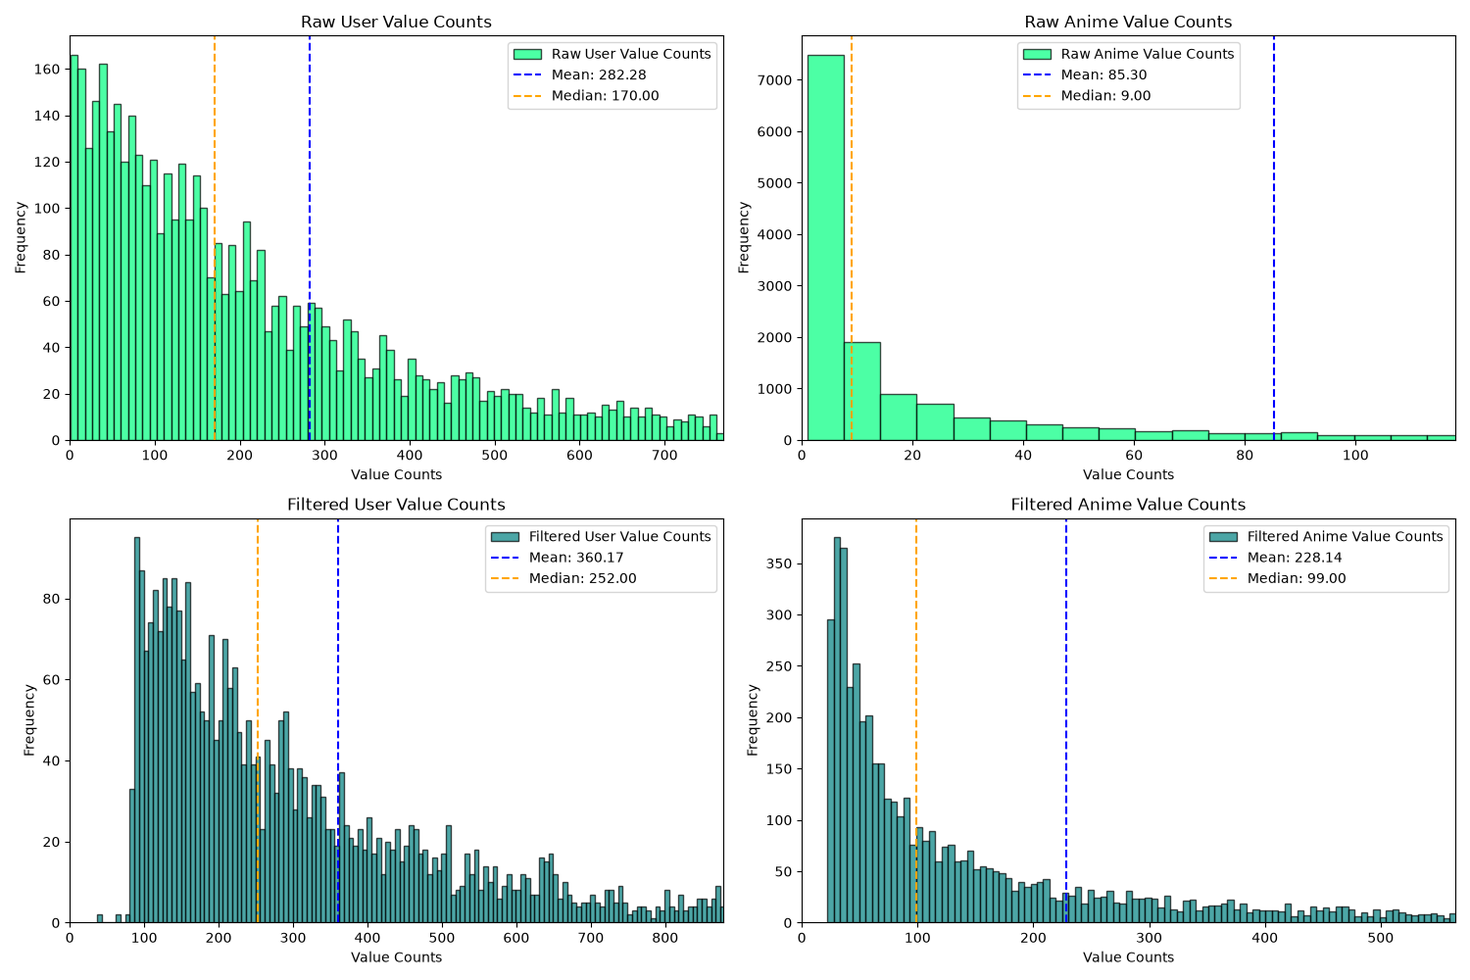
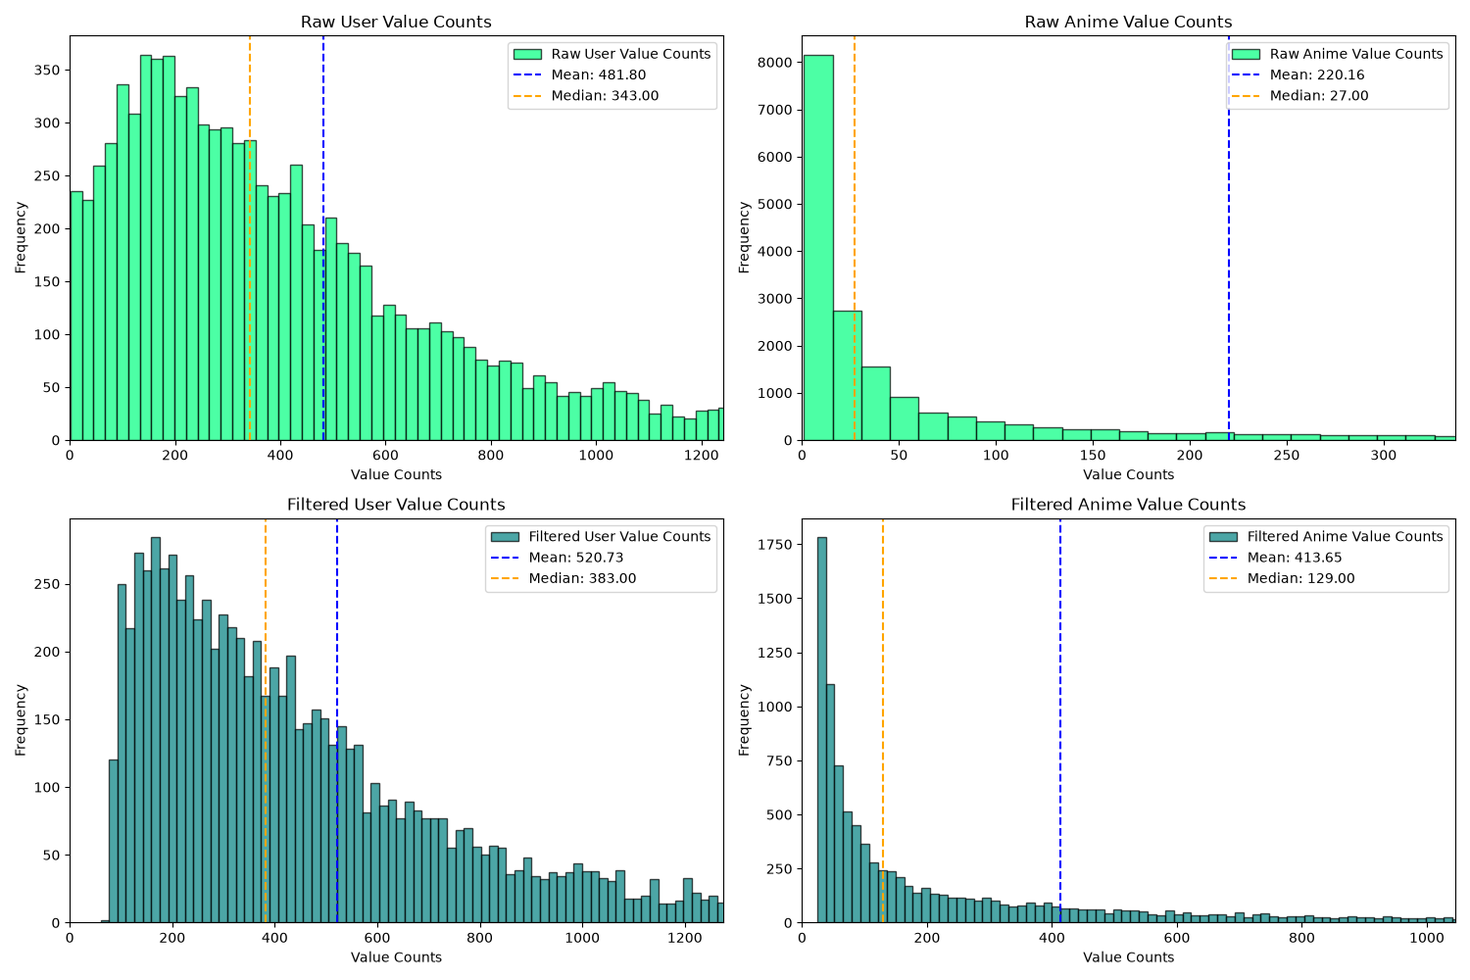
updated readme

diff --git a/README.md b/README.md
@@ -1,66 +1,151 @@
 # Anime Recommender
 
-User-based collaborative filtering, content-based filtering, a weighted hybrid and Surprise SVD on MyAnimeList ratings, all scored against simple baselines on the same held-out test set.
+User-based collaborative filtering, content-based filtering, a weighted hybrid and Surprise SVD on [AniList](https://anilist.co) ratings, all scored against simple baselines on the same held-out test set.
 
-MyAnimeList's built-in recommendations are based on popularity and on recent user-written recommendations, not on what an individual user has rated. This project tests how much personalised models improve on that, using ratings collected from MAL.
+## Background
 
-Originally built as a university data analytics coursework project. The code was reviewed and fixed afterwards (see [Changes](#changes-from-the-original-coursework-notebook)), so the results here differ from the original coursework report, which is not included.
+This started as a university data analytics coursework project built on a different dataset: ratings scraped from MyAnimeList (MAL). A later review of the code found problems in the original methods, some of them fundamental enough to change the results and the conclusions drawn from them, so the methods were rewritten (see [Issues in the original](#issues-in-the-original)).
+
+The project now uses AniList data only. Unlike the MAL data, which was collected with code outside this repo, the AniList data is collected by a notebook in this repo ([`anilist_ingestion.ipynb`](anilist_ingestion.ipynb)), so the dataset can be rebuilt from scratch. The original coursework report and the MAL data are not included.
+
+## Issues in the original
+
+Problems found in the coursework version, and how they were fixed:
+
+- **Collaborative filtering similarity was wrong.** Unrated anime were filled with 0 and the ratings masked with `> 0` *after* mean-centring, so only anime both users rated *above their own mean* counted. Every similarity was ≥ 0 and most users had several "perfect" (1.0) neighbours based on one or two shared anime. Now: mean-centred cosine over all co-rated anime (similarities can be negative), shrunk by `n_shared / (n_shared + 25)`, and ignored below 5 shared anime.
+- **CF neighbours didn't have to have rated the anime.** Neighbours were the top-n most similar users overall, so about 90% of predictions silently fell back to the user's mean. Now neighbours are picked per anime from the users who rated it.
+- **The hybrid mixed rating scales.** CF scores were on the 1–10 scale but content-based scores were `mean(similarity × rating)`, so CF always won and the "hybrid" output was just the CF list. Now both components predict ratings and are blended for every anime.
+- **The hybrid evaluation leaked test data.** It used user similarities computed from all ratings, test ratings included. Now evaluation only uses training ratings.
+- **Content-based errors were flattering.** Pairs it couldn't predict were dropped from the evaluation instead of counted. Now they fall back to a baseline and coverage is reported.
+- **Hyperparameters were tuned on the test set**, and models were scored on different splits with no baselines. Now every model is scored on one shared test set, neighbourhood sizes and the hybrid weight are tuned on a separate validation split, and three baselines are reported. Against those baselines, the original CF did *worse* than predicting each user's mean rating.
+- **The population comparison counted MAL's 0 ("watched, not scored") as a rating**, which put the population mean at 4.25 and led to the wrong conclusion that the sample wasn't representative.
+- Smaller fixes: a `StandardScaler` whose output was discarded, a file path that no longer existed, a "top 10" loop that read 9, uncapped predictions, `eval()` on stringified dicts, and an empty-string genre label created for missing values.
 
 ## Data
 
-**Collection.** The MAL API returned the 500 most popular anime. Their stats pages were scraped with Beautiful Soup for usernames, keeping only users who had scored the title. Collection was capped at 10,000 users by API limits. Each user's scored anime list was then fetched through the API, giving a 5,610 × 20,896 user-by-anime matrix. Metadata for each anime came from the API, and themes were scraped from each anime's page.
+### Collection
 
-**Population check.** The Kaggle [Anime Dataset 2023](https://www.kaggle.com/datasets/dbdmobile/myanimelist-dataset) user ratings (313,670 users once MAL's `0` = "not scored" entries are removed) are used to check that the sample is representative. The rating distributions are close: the mean rating is 7.38 in the sample and 7.43 in the population, and the median is 8 in both.
+[`anilist_ingestion.ipynb`](anilist_ingestion.ipynb) collects the data from the AniList GraphQL API:
 
-**Preprocessing.**
-- Usernames are replaced with random user IDs by `scripts/anonymise_users.py`. The original files with real usernames are not in this repo.
-- Duplicate users are removed: 5,610 rows become 5,034 users, 4,915 of whom have at least one rating.
-- The wide matrix is melted into ~1.39M `(user_id, anime_title, rating)` rows.
-- Users with fewer than 85 ratings and anime with fewer than 25 are dropped. This leaves 3,506 users, 5,535 anime and 1.26M ratings.
-- Users whose mean rating is above 9 are removed, since many users rate everything 10 as a checklist. This leaves **3,370 users** for modelling.
-- Sparsity falls from 98.68% to 93.45%.
-- 72% of the remaining anime (3,977 of 5,535) have metadata. The content-based model falls back to the baseline for the rest.
+1. **Seed anime**: the top 500 anime by score.
+2. **Users**: for each seed anime, up to 50 users who have scored it, until `MAX_USERS` unique users are found.
+3. **Manual users**: specific users added by name (people of interest). They are always fetched and marked `source = "manual"`.
+4. **User lists**: every entry on each user's anime list, with scores on AniList's 1–100 scale (rescaled to 1–10 for the models).
+5. **Anime metadata**: the 15,000 anime rated most often in the collection plus the top 100 seed anime. This covers format, episodes, genres, tags, studios, scores and description, and keeps the MAL ID for cross-referencing.
+6. **MAL synopses**: AniList's descriptions are often short, so each anime's synopsis is looked up on MyAnimeList by its MAL ID. The source is the official MAL API when a `MAL_CLIENT_ID` environment variable is set (a free client ID from [myanimelist.net/apiconfig](https://myanimelist.net/apiconfig)), otherwise [Jikan](https://jikan.moe), an unofficial MAL API that needs no key. Some VPNs are blocked by Jikan; the stage detects this and stops with a message.
+
+Requests are throttled to AniList's current limit (30/min) with retries and backoff. Every stage checkpoints to disk, so a collection can run over several sessions and be interrupted safely, and each stage is validated before the next.
+
+The current dataset has 10,000 seed users plus 1 manual user. The seed users came from 241 of the 282 highest-rated anime, the ones searched before `MAX_USERS` was reached. 518 seed users had private lists, which leaves **9,483 lists, 7,485,213 list entries and 4,557,327 ratings** across 20,700 anime.
+
+### How the collected data is transformed
+
+**List entries → `ratings.csv.gz`** (one row per user and anime)
+- **Scores** are requested on AniList's 1–100 scale (`score`), whatever scale each user rates in, and rescaled to `rating = score / 10` (0.1–10). A score of 0 means *unrated*: `is_rated` is false and `rating` is empty. The analysis only uses rated entries.
+- **Custom lists are skipped**, since they repeat entries from the status lists (Watching, Completed, …).
+- **Duplicate entries are merged.** AniList occasionally holds two entries for the same anime in one list, mostly on accounts from 2014–2015. The rated entry is kept, then the most recently updated, then the one with more progress.
+- **Kept per entry:** `status` (`COMPLETED`, `PLANNING`, `DROPPED`, `CURRENT`, `PAUSED`, `REPEATING`), `progress` (episodes watched) and `repeat` (rewatch count).
+- **Dates:** AniList's partial dates become `YYYY-MM-DD` (or `YYYY-MM` / `YYYY` when incomplete), and Unix timestamps become ISO UTC. These dates are only kept in the raw collection; the anonymised copy drops them (see [Privacy](#privacy)).
+
+**User lists → `user_profiles.csv`** (one row per user, computed from their list)
+- Status counts: `Watching` (current + rewatching), `Completed`, `On-Hold` (paused), `Dropped`, `Plan to Watch` (planning), and `Total Entries`.
+- `Rewatched` is the sum of rewatch counts, `Episodes` the sum of episodes watched, and `Mean Score` the mean rating of rated entries.
+- `Days` comes from AniList's own watch-time statistic, and is empty when AniList has none for the account.
+- `Gender` is always empty, because AniList doesn't expose it.
+
+**Anime metadata → `anime_metadata.csv`** (one row per anime)
+- **Which anime:** the 15,000 anime rated most often in the collection plus the top 100 seed anime, fetched 50 per request.
+- `Title` is the romaji title. English and native titles, the MAL ID, studios (main studios only), source material, duration and airing status are kept as extra columns.
+- `Type` is AniList's format in lower case (`tv`, `tv_short`, `movie`, `special`, `ova`, `ona`, `music`).
+- **Genres** (`Genre(s)`) come from AniList's fixed list of 19 genres, comma-separated.
+- **Themes** (`Theme(s)`): AniList has no separate themes, so these are its tags with a relevance of at least 60/100, excluding spoiler tags, most relevant first. The full tag list with relevance scores is kept in `tags` (`name:rank; …`).
+- **Synopsis:** MyAnimeList's synopsis where there is one, with its credit line (`[Written by MAL Rewrite]`, `(Source: …)`) removed. Anime without a MAL synopsis fall back to AniList's description, with HTML removed, entities decoded, and the `(Source: …)` credit cut along with any broadcast notes after it. `synopsis_source` records which was used, and AniList's text is kept in `synopsis_anilist` for comparison. The text stays out of git (see [Privacy](#privacy)).
+- **Scores:** `Mean Rating` is AniList's mean score / 10. `Rank` and `Popularity` are AniList's all-time rankings, which only exist for top anime, so `Rank` is mostly empty. `score_distribution` holds AniList-wide score counts in 10-point buckets as JSON.
+- **Dates:** `Year` and `Season` (e.g. `spring 2023`) come from the release season, and `Start Date` / `End Date` are `dd/mm/yyyy` when the full date is known.
+
+**In the analysis** ([`anime_recommender.ipynb`](anime_recommender.ipynb))
+- **Content-based features** for each anime, scaled by a weight before being combined:
+  - episode count: log-scaled and standardised, weight 1;
+  - `Type`: one-hot encoded, weight 1;
+  - genres: multi-hot encoded, weight 2;
+  - themes: multi-hot encoded, weight 1.75;
+  - synopsis: a 384-dimension `all-MiniLM-L6-v2` sentence embedding, weight 3.5.
+- Content similarity is the cosine similarity of the weighted features.
+- `score_distribution` is summed over the sampled anime to compare the sample's ratings with AniList as a whole.
+- Ratings are matched to metadata by AniList anime ID.
+
+### Sampling bias
+
+The sample is not representative of AniList users:
+
+- **Users come from top-rated anime**, so they lean towards active, engaged users with long lists (median 343 ratings per user).
+- **The sample is dominated by early accounts.** For a given anime, AniList's API only returns the first 5,000 list entries, oldest first, and ignores sorting and date filters on that query. Users are taken from random pages within that window, but it can't reach past it. The median sampled account has an AniList ID of about 236,000, and 63% have IDs below 500,000, against roughly 7.9 million accounts in total.
+- **Users rate lower than AniList as a whole.** On the same anime, the sample's mean rating is about 7.1 against 7.6 for all AniList users (median 7 vs 8), with a similar spread (`figures/sample_vs_anilist_ratings.png`).
+- **The seed anime shape the sample.** Every seed user has scored at least one of the 282 highest-rated anime (e.g. *Sousou no Frieren*, *Gintama*, *Fullmetal Alchemist: Brotherhood*).
+- **Private lists are missing** (5% of the users found), and only users who scored the seed anime are taken.
+- **Manual users are hand-picked**, so they are excluded from the sample statistics. They are kept in the models and exempt from the user filters, so they always get recommendations.
+
+### Privacy
+
+The raw collection (`data/raw/anilist/`) contains usernames, AniList user IDs and complete lists, and is gitignored. [`scripts/anonymise_users.py`](scripts/anonymise_users.py) writes the committed copy, `data/raw/anilist_anonymised/`:
+- Seed users get random IDs (`anon-00001`, …), and their usernames and AniList IDs are removed. The ID map stays in the gitignored `data/private/`.
+- Manual users keep their AniList username.
+
+- Dates (started, completed, updated, created) and anime titles are dropped from the ratings file. Dates are the main way an anonymised list could be matched back to a public profile, and dropping them keeps the file under GitHub's 100 MB limit: about 38 MB instead of 200 MB for 10,000 users. Titles are in `anime_metadata.csv`.
+
+- Synopsis text is moved out of `anime_metadata.csv` into `anime_synopses.csv`, which is gitignored, because it is mostly MyAnimeList's copyrighted text. Only the embeddings built from it (`artifacts/synopsis_embeddings.npy`) are committed, so the analysis runs from a fresh clone without the text.
+
+Even without dates, a long list of ratings can sometimes be matched to a public profile. Check AniList's and MyAnimeList's API terms of use before publishing any of this data.
+
+### Preprocessing
+
+- Unscored list entries (planned, dropped or watched without a score) are not ratings and are dropped.
+- Users with fewer than 85 ratings and anime with fewer than 25 are dropped (manual users are kept). This leaves 8,503 users, 10,704 anime and 4,427,738 ratings.
+- Users whose mean rating is above 9 are removed, since rating nearly everything 9–10 says little about taste. This leaves **8,276 users** for modelling.
+- Sparsity falls from 97.67% to 95.09%.
+- All 10,704 remaining anime have metadata (the metadata covers the 15,000 anime rated most often).
 
 ## Results
 
-All models are scored on the same test set: 20% of each user's ratings. k and the hybrid weight were tuned on a validation split carved out of the training data.
+All models are scored on the same test set: 20% of each user's ratings. k and the hybrid weight were tuned on a validation split carved out of the training data. Ratings are on a 1–10 scale.
 
 | Model | MAE | RMSE | Coverage |
 |---|---|---|---|
-| SVD (tuned: 150 factors, lr 0.005, reg 0.1) | 0.871 | 1.176 | 100% |
-| Weighted hybrid (0.8 CF / 0.2 content) | 0.889 | 1.200 | 100% |
-| User-based CF (k = 50) | 0.904 | 1.218 | 100% |
-| *Baseline: user mean + item bias* | 0.948 | 1.272 | 100% |
-| Content-based (k = 20) | 1.027 | 1.372 | 91.8% |
-| *Baseline: user mean* | 1.113 | 1.469 | 100% |
-| *Baseline: global mean* | 1.296 | 1.678 | 100% |
+| SVD (default: 100 factors, lr 0.005, reg 0.02) | 0.872 | 1.203 | 100% |
+| SVD (grid search: 150 factors, lr 0.005, reg 0.1) | 0.892 | 1.217 | 100% |
+| Weighted hybrid (0.7 CF / 0.3 content) | 0.905 | 1.238 | 100% |
+| User-based CF (k = 30) | 0.936 | 1.271 | 99.6% |
+| *Baseline: user mean + item bias* | 0.997 | 1.347 | 100% |
+| Content-based (k = 10) | 1.050 | 1.433 | 100% |
+| *Baseline: user mean* | 1.194 | 1.585 | 100% |
+| *Baseline: global mean* | 1.414 | 1.859 | 100% |
 
-Coverage is the share of test ratings a model predicted itself rather than handing to the baseline.
+Coverage is the share of test ratings a model predicted itself rather than handing to the baseline. The content-based and hybrid results above use AniList's descriptions; they will change slightly once the MAL synopses are fetched and the embeddings rebuilt.
 
-The hybrid beats both of its components, but most of its accuracy comes from CF. Content-based filtering does worse than the user mean + item bias baseline, even on the pairs it covers. It adjusts the user's mean using only their own ratings of similar anime and ignores how each anime is rated overall. Basing both kNN models on the user + item baseline (Koren's kNN-baseline) is the obvious next step.
+SVD is the most accurate model. Its grid search (3-fold cross-validation on the training data) picked a more regularised configuration that did slightly *worse* on the test set than the defaults, so tuning it on the validation split like the other models would be a fairer comparison. The hybrid beats both of its components. On its own, content-based filtering does worse than the user mean + item bias baseline: it adjusts the user's mean using only their own ratings of similar anime, and ignores how each anime is rated overall. Basing both kNN models on the user + item baseline (Koren's kNN-baseline) is the obvious next step.
 
 ## Layout
 
 ```
 content_recommender/
+├── anilist_ingestion.ipynb              # collects the AniList data (resumable, rate-limited)
 ├── anime_recommender.ipynb              # EDA, preprocessing, models, evaluation
 ├── environment.yml                      # conda environment
 ├── data/
 │   ├── raw/
-│   │   ├── user_anime_ratings_wide.csv.gz  # one row per MAL user, one column per anime
-│   │   ├── anime_metadata.csv           # type, genres, themes, episodes, synopsis per anime
-│   │   └── user_profiles.csv            # MAL profile stats (gender, days watched, ...)
-│   ├── private/                         # not in git: original files with usernames, username -> ID map
-│   ├── external/
-│   │   ├── population_rating_counts.csv       # Kaggle "Anime Dataset 2023" rating histogram
-│   │   └── population_user_mean_ratings.csv   # ... and per-user mean ratings
-│   └── processed/
-│       └── ratings_long_filtered.csv    # generated: filtered (user_id, anime_title, rating)
-├── artifacts/                           # generated: synopsis embeddings, top-15 similar anime
+│   │   ├── anilist/                     # not in git: raw collection with usernames + checkpoints
+│   │   └── anilist_anonymised/
+│   │       ├── ratings.csv.gz           # one row per list entry (user_id, anime_id, score, rating, status, ...)
+│   │       ├── anime_metadata.csv       # format, genres, themes (tags), episodes, scores per anime (no synopsis text)
+│   │       ├── anime_synopses.csv       # not in git: synopsis text (MAL, or AniList as fallback)
+│   │       ├── user_profiles.csv        # per-user list statistics (status counts, episodes, mean score)
+│   │       └── users.csv                # every user found, with source and status
+│   ├── private/                         # not in git: AniList ID -> anonymised ID map
+│   └── processed/                       # not in git: generated filtered ratings
+├── artifacts/                           # synopsis embeddings and their anime IDs (committed), top-15 similar anime
 ├── figures/                             # generated: EDA plots
 └── scripts/
-    ├── anonymise_users.py               # writes data/raw user files from data/private with random IDs
-    ├── build_population_summary.py      # rebuilds data/external from the 1.5 GB Kaggle file
+    ├── anonymise_users.py               # anonymised copy of the collection (manual users keep their names)
     └── build_synopsis_embeddings.py     # encodes synopses into artifacts/ (run by the notebook if missing)
 ```
 
@@ -71,32 +156,26 @@ conda env create -f environment.yml
 conda activate anime-recommender
 ```
 
-Open `anime_recommender.ipynb` with the `anime-recommender` environment as the kernel and run all cells from this folder. A full run takes a few minutes with the synopsis embeddings cached.
+1. **Collect** (optional, the anonymised data and the synopsis embeddings are included): open `anilist_ingestion.ipynb`, set `TEST_MODE = False` and the sample size in the config cell, and run all cells. Rerunning continues where it stopped. Allow about 45 minutes per 1,000 users plus the MAL synopses (see [Run times](#run-times)). To use the official MAL API for synopses, set `MAL_CLIENT_ID` in the environment before starting Jupyter.
+2. **Anonymise**: `python scripts/anonymise_users.py`
+3. **Analyse**: open `anime_recommender.ipynb` with the `anime-recommender` environment as the kernel and run all cells from the repo root. A full run takes a couple of minutes once the synopsis embeddings are cached.
 
-The synopsis embeddings are cached in `artifacts/synopsis_embeddings.npy`. If the file is missing, the notebook runs `scripts/build_synopsis_embeddings.py` to rebuild it, downloading the `all-MiniLM-L6-v2` model on first use. That step runs in a separate process because on Windows, pip's `torch` and conda's MKL crash when loaded into the same Python process. Don't import `torch` in the notebook kernel.
+The synopsis embeddings are cached in `artifacts/synopsis_embeddings.npy`, with the anime IDs they belong to in `artifacts/synopsis_embedding_ids.npy`. If either file is missing, the notebook runs `scripts/build_synopsis_embeddings.py` to rebuild them from `anime_synopses.csv`, downloading the `all-MiniLM-L6-v2` model on first use. Delete `synopsis_embeddings.npy` after the synopses change (for example after fetching MAL synopses), since changed text isn't detected automatically. That step runs in a separate process because on Windows, pip's `torch` and conda's MKL crash when loaded into the same Python process. Don't import `torch` in the notebook kernel.
 
-## Changes from the original coursework notebook
+### Run times
 
-**Collaborative filtering**
-- The similarity is computed over anime both users rated. The original filled unrated anime with 0 and kept only anime both users rated above their own mean, so every similarity was ≥ 0 and many were exactly 1 from one or two shared anime.
-- Similarities are shrunk when users share few anime, and pairs sharing fewer than 5 anime are ignored.
-- Neighbours are picked per anime from the users who rated it. Before, they were the top-n users overall, so about 90% of predictions silently fell back to the user's mean.
+Measured on the 10,000-user collection (Windows desktop, CPU only):
 
-**Content-based**
-- Predictions are on the 1–10 rating scale: the user's mean plus the similarity-weighted average of their mean-centred ratings of the most similar anime they rated. Before, the score was the average of similarity × rating.
-- Pairs that cannot be predicted fall back to the baseline instead of being dropped, and coverage is reported.
+| Step | Time | Notes |
+|---|---|---|
+| Seed anime + user discovery | 64 min | 282 seed anime searched, 1–3 requests each |
+| User lists | 6.4 h | One request per user, about 2.3 s each |
+| Anime metadata | ~5 min | ~110 requests of 50 anime (measured for 5,000; 15,000 takes about 3× as long) |
+| MAL synopses | ~5 h (estimate) | One request per anime with a MAL ID (~15,000) at 50/min |
+| Validation and assembly | ~3 min | Also the time for a rerun of a finished collection, which makes no requests |
+| Anonymisation | ~1 min | |
+| Synopsis embeddings | ~1.5 min | 15,000 synopses; cached afterwards |
+| Analysis notebook | ~7 min | Half of it is the SVD grid search |
+| **Total from scratch** | **~13 h** | Mostly user lists (about 45 minutes per 1,000 users) and MAL synopses |
 
-**Hybrid**
-- It blends two rating-scale predictions for every anime. Before, it combined scores on different scales, so the CF list always won.
-- Evaluation uses training-only CF similarities. Before, the similarities were built from all ratings, including the test ratings.
-
-**Evaluation**
-- All models are scored on one shared train/test split.
-- Hyperparameters (k, hybrid weight) are tuned on a validation split taken from the training data instead of on the test set.
-- Global-mean, user-mean and user-mean + item-bias baselines are added.
-
-**Smaller fixes**
-- The population comparison excludes MAL's `0` ("not scored") ratings.
-- A data path that no longer existed is fixed, and a dead `StandardScaler` is removed.
-- An empty-string genre/theme label is no longer created for missing values.
-- `eval` on stringified dicts is replaced by a NumPy similarity matrix, and duplicate metadata titles are de-duplicated.
+The collection ran with `REQUESTS_PER_MINUTE = 45`. AniList answered that with 361 rate-limit responses, and the notebook waited out each one. The effective rate came out at about 26 requests/minute, *slower* than the 30/min AniList currently allows, so leave it at 30. At a steady 30/min, user lists take 2 s each, about 5.5 h for 10,000 users.
